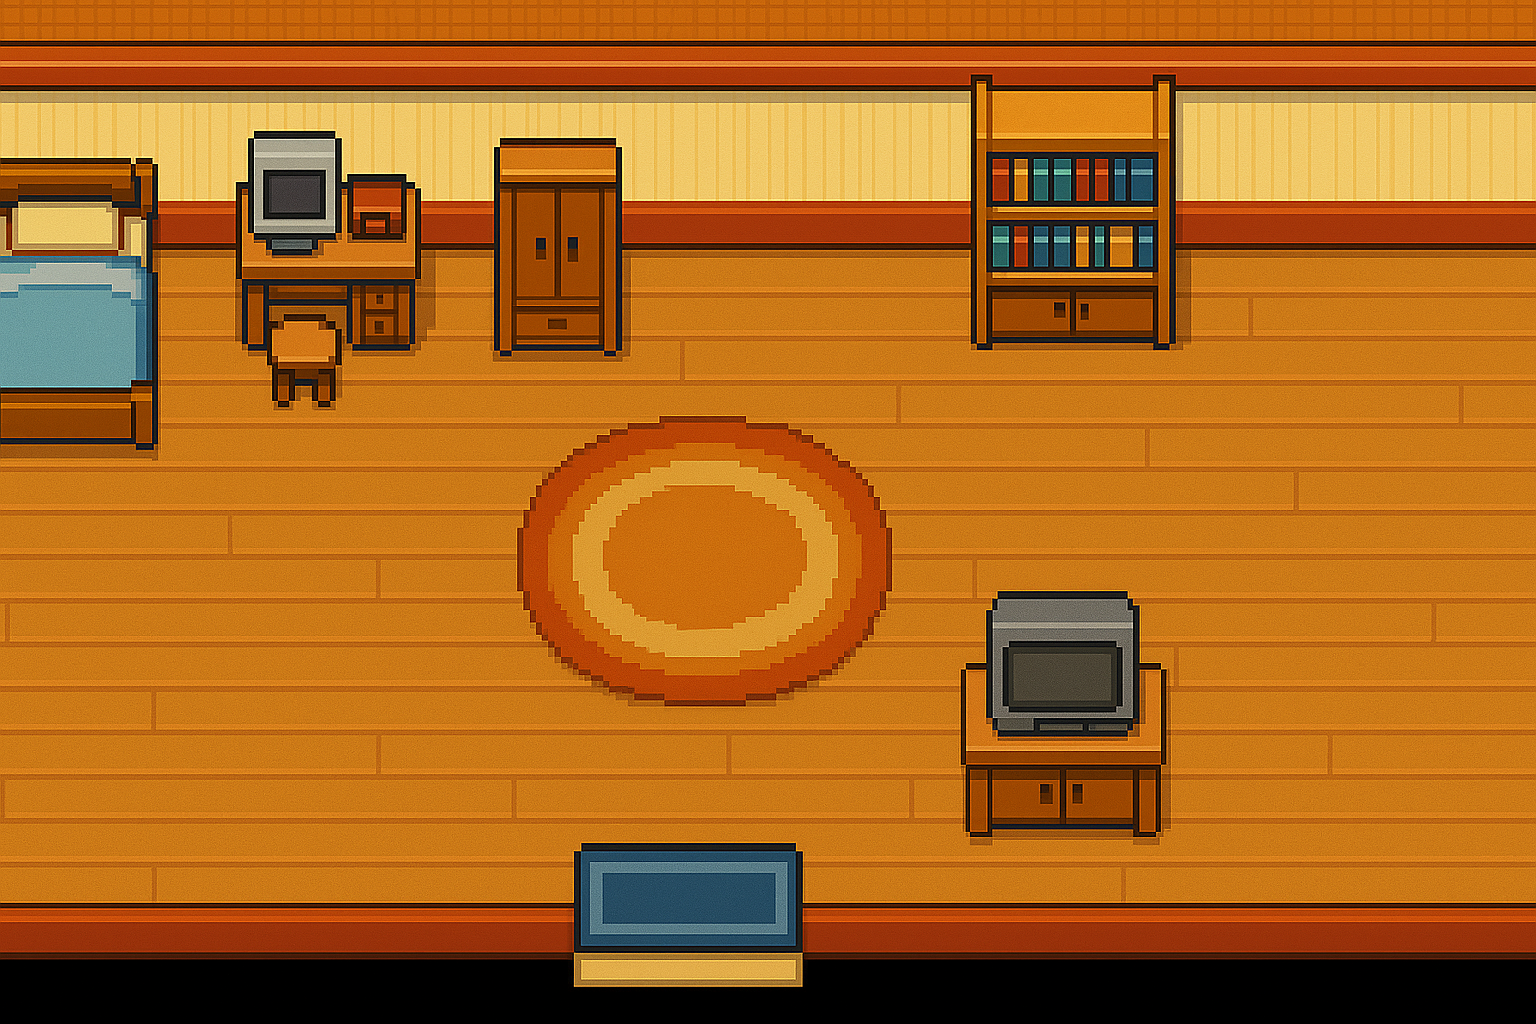
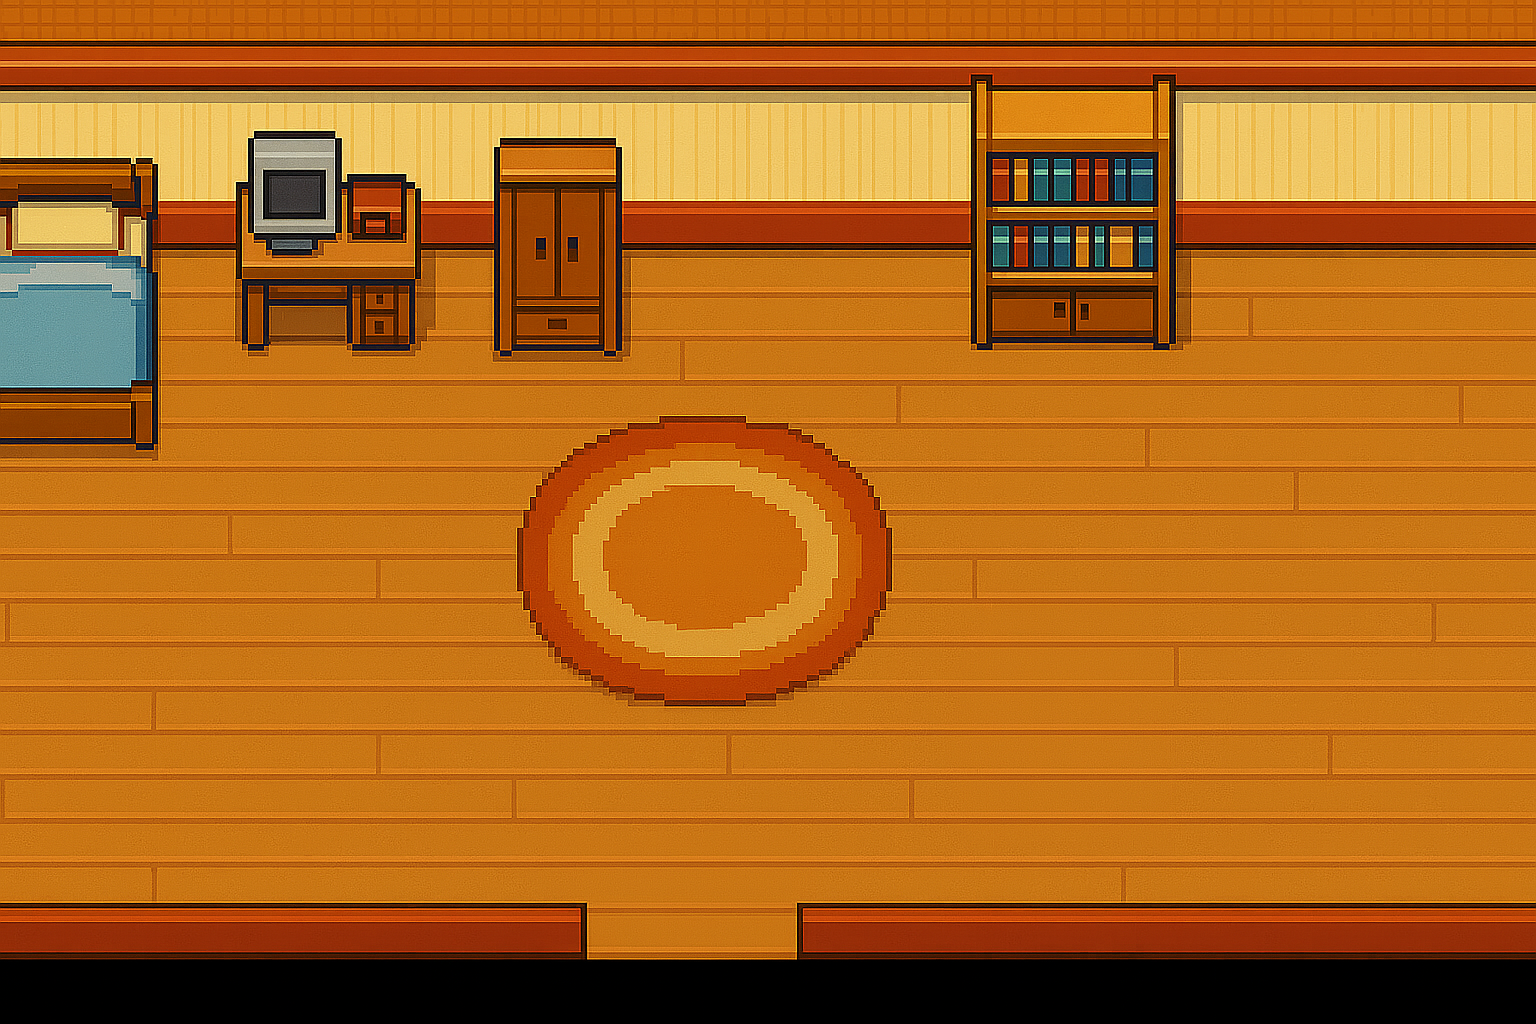
Added in starting room logic and lead up to home_city function

diff --git a/main.py b/main.py
@@ -60,10 +60,30 @@ save_files = ["saveSlot1.json", "saveSlot2.json", "saveSlot3.json"]
 player = None
 
 #Player Sprites
-userNorthIMG=[pygame.image.load("userNorth1.png"), pygame.image.load("userNorth2.png"), pygame.image.load("userNorth3.png"), pygame.image.load("userNorth4.png")]
-userEastIMG=[pygame.image.load("userEast1.png"), pygame.image.load("userEast2.png"), pygame.image.load("userEast3.png"), pygame.image.load("userEast4.png")]
-userSouthIMG=[pygame.image.load("userSouth1.png"), pygame.image.load("userSouth2.png"), pygame.image.load("userSouth3.png"), pygame.image.load("userSouth4.png")]
-userWestIMG=[pygame.image.load("userWest1.png"), pygame.image.load("userWest2.png"), pygame.image.load("userWest3.png"), pygame.image.load("userWest4.png")]
+userNorthIMG=[
+    pygame.image.load("userNorth1.png"),
+    pygame.image.load("userNorth2.png"),
+    pygame.image.load("userNorth3.png"),
+    pygame.image.load("userNorth4.png")
+    ]
+userEastIMG=[
+    pygame.image.load("userEast1.png"),
+    pygame.image.load("userEast2.png"),
+    pygame.image.load("userEast3.png"),
+    pygame.image.load("userEast4.png")
+    ]
+userSouthIMG=[
+    pygame.image.load("userSouth1.png"),
+    pygame.image.load("userSouth2.png"),
+    pygame.image.load("userSouth3.png"),
+    pygame.image.load("userSouth4.png")
+    ]
+userWestIMG=[
+    pygame.image.load("userWest1.png"),
+    pygame.image.load("userWest2.png"),
+    pygame.image.load("userWest3.png"),
+    pygame.image.load("userWest4.png")
+    ]
 
 
 # Loop for save slots
@@ -92,9 +112,9 @@ while running:
 
                 if data == {}:
                     newPlayer = True
-                    user = Player("Ryott", userSouthIMG[0], 250, 250, 4)
+                    user = Player("Ryott", userNorthIMG, userSouthIMG, userEastIMG, userWestIMG, 250, 250, 4)
                 else:
-                    user = Player.from_dict(data)
+                    user = Player.from_dict(data, userNorthIMG, userSouthIMG, userEastIMG, userWestIMG)
 
                 running = False
 
@@ -140,38 +160,39 @@ starter1 = Button("pyrazzle.png", (150, 200), scale=0.4)
 starter2 = Button("aquabble.png", (550, 200), scale=0.4)
 starter3 = Button("sproutuft.png", (950, 200), scale=0.4)
 
-pymon=[]
+pymon=[] 
 starter=None
-running = True
-while running:
-    screen.fill((50, 50, 50))
+if newPlayer:
+    running = True
+    while running:
+        screen.fill((50, 50, 50))
 
-    # Update and draw each button
-    starter1.update()
-    starter1.draw(screen)
+        # Update and draw each button
+        starter1.update()
+        starter1.draw(screen)
 
-    starter2.update()
-    starter2.draw(screen)
+        starter2.update()
+        starter2.draw(screen)
 
-    starter3.update()
-    starter3.draw(screen)
+        starter3.update()
+        starter3.draw(screen)
 
-    for event in pygame.event.get():
-        if event.type == pygame.QUIT:
-            running = False
+        for event in pygame.event.get():
+            if event.type == pygame.QUIT:
+                running = False
 
-        if starter1.is_clicked(event):
-            starter="Pyrazzle"
-            running=False
-        if starter2.is_clicked(event):
-            starter="Aquabble"
-            running=False
-        if starter3.is_clicked(event):
-            starter="Sproutuft"
-            running=False
+            if starter1.is_clicked(event):
+                starter="Pyrazzle"
+                running=False
+            if starter2.is_clicked(event):
+                starter="Aquabble"
+                running=False
+            if starter3.is_clicked(event):
+                starter="Sproutuft"
+                running=False
 
-    pygame.display.update()
-    clock.tick(60)
+        pygame.display.update()
+        clock.tick(60)
 
 #Starter Pymon
 Tackle= move("Tackle", "Normal", 40, 100, 0)
@@ -212,7 +233,47 @@ def home():
         room.draw(screen)
         #Add player update/sprite here
         user.draw(screen)
-        #Also add logic to change screen based on player position
+        user.update()
+        #Player Boundaries
+        #Bed
+        bed_rect=pygame.Rect(0, 100, 150, 250)
+        if user.rect.colliderect(bed_rect):
+            if user.rect.left < bed_rect.right and user.rect.right > bed_rect.right:
+                user.rect.left = bed_rect.right
+            if user.rect.top < bed_rect.bottom and user.rect.bottom > bed_rect.bottom:
+                user.rect.top = bed_rect.bottom
+        #Desk
+        desk_rect=pygame.Rect(200, 150, 200, 100)
+        if user.rect.colliderect(desk_rect):
+            if user.rect.left < desk_rect.right and user.rect.right > desk_rect.right:
+                user.rect.left = desk_rect.right
+            if user.rect.top < desk_rect.bottom and user.rect.bottom > desk_rect.bottom:
+                user.rect.top = desk_rect.bottom
+        #Cabinet
+        cabinet_rect=pygame.Rect(500, 150, 100, 100)
+        if user.rect.colliderect(cabinet_rect):
+            if user.rect.left < cabinet_rect.right and user.rect.right > cabinet_rect.right:
+                user.rect.left = cabinet_rect.right
+            if user.rect.top < cabinet_rect.bottom and user.rect.bottom > cabinet_rect.bottom:
+                user.rect.top = cabinet_rect.bottom
+        #Bookshelf
+        bookshelf_rect=pygame.Rect(1000, 150, 150, 100)
+        if user.rect.colliderect(bookshelf_rect):
+            if user.rect.top < bookshelf_rect.bottom and user.rect.bottom > bookshelf_rect.bottom:
+                user.rect.top = bookshelf_rect.bottom
+            if user.rect.left < bookshelf_rect.right and user.rect.right > bookshelf_rect.right:
+                user.rect.left = bookshelf_rect.right
+            if user.rect.right > bookshelf_rect.left and user.rect.left < bookshelf_rect.left:
+                user.rect.right = bookshelf_rect.left
+        #Walls
+        if user.rect.top < 100:
+            user.rect.top = 100
+        if user.rect.bottom > 900 and user.rect.left>700 or user.rect.bottom >900 and user.rect.right < 700:
+            user.rect.bottom = 900
+        #Exit
+        exit_rect=pygame.Rect(580, 900, 150, 100)
+        if user.rect.colliderect(exit_rect):
+            home_city()
         pygame.display.update()
         clock.tick(60)
 def home_city():

diff --git a/classes.py b/classes.py
@@ -158,54 +158,113 @@ class Button:
         return event.type == pygame.MOUSEBUTTONDOWN and self.rect.collidepoint(event.pos)
 
 class Player(pygame.sprite.Sprite):
-    def __init__(self, name, image, x, y, scale):
+    def __init__(self, name, north_images, south_images, east_images, west_images, x, y, scale):
         super().__init__()
-        width, height = image.get_size()
-        self.image = pygame.transform.scale(image, (int(width * scale), int(height * scale)))
+        self.name = name
+        self.north_images = north_images
+        self.south_images = south_images
+        self.east_images = east_images
+        self.west_images = west_images
+
+        self.direction = "south"
+        self.current_frame = 0
+        self.frame_timer = 0
+        self.frame_delay = 5  # Frames before advancing animation
+
+        # Scale first frame image
+        self.image = self.south_images[0]
+        width, height = self.image.get_size()
+        self.scale = scale
+        self.image = pygame.transform.scale(self.image, (int(width * scale), int(height * scale)))
+
         self.rect = self.image.get_rect()
         self.rect.x = x
         self.rect.y = y
-        self.name = name
+
         self.pymon_list = []
 
-
     def draw(self, surface):
-        surface.blit(self.image, self.rect)  # Draw the sprite on the surface
+        surface.blit(self.image, self.rect)
+
     def catch_pymon(self, new_pymon):
         self.pymon_list.append(new_pymon)
-        print(f"{self.name} aquired a new Pymon: {new_pymon.name}!")
+        print(f"{self.name} acquired a new Pymon: {new_pymon.name}!")
+
     def update(self):
-        keystate=pygame.key.get_pressed()
+        keystate = pygame.key.get_pressed()
+        moved = False
+
         if keystate[pygame.K_UP]:
-            self.rect.y -=5
-        if keystate[pygame.K_DOWN]:
-            self.rect.y +=5
-        if keystate[pygame.K_LEFT]:
-            self.rect.x -=5
-        if keystate[pygame.K_RIGHT]:
-            self.rect.x +=5
-        #Staying in screen bounds
-        if self.rect.top<0:
-            self.rect.top=0
-        if self.rect.bottom>1000:
-            self.rect.bottom=1000
-        if self.rect.left<0:
-            self.rect.left=0
-        if self.rect.right>1500:
-            self.rect.right=1500
+            self.rect.y -= 5
+            self.direction = "north"
+            moved = True
+        elif keystate[pygame.K_DOWN]:
+            self.rect.y += 5
+            self.direction = "south"
+            moved = True
+        elif keystate[pygame.K_LEFT]:
+            self.rect.x -= 5
+            self.direction = "west"
+            moved = True
+        elif keystate[pygame.K_RIGHT]:
+            self.rect.x += 5
+            self.direction = "east"
+            moved = True
+
+        if moved:
+            self.frame_timer += 1
+            if self.frame_timer >= self.frame_delay:
+                self.current_frame = (self.current_frame + 1) % 4
+                self.update_image()
+                self.frame_timer = 0
+        else:
+            self.current_frame = 0
+            self.update_image()
+
+        # Stay in bounds
+        if self.rect.top < 0:
+            self.rect.top = 0
+        if self.rect.bottom > 1000:
+            self.rect.bottom = 1000
+        if self.rect.left < 0:
+            self.rect.left = 0
+        if self.rect.right > 1500:
+            self.rect.right = 1500
+
+    def update_image(self):
+        if self.direction == "north":
+            img = self.north_images[self.current_frame]
+        elif self.direction == "south":
+            img = self.south_images[self.current_frame]
+        elif self.direction == "east":
+            img = self.east_images[self.current_frame]
+        elif self.direction == "west":
+            img = self.west_images[self.current_frame]
+        else:
+            img = self.south_images[0]
+
+        original_width, original_height = img.get_size()
+        scaled_width = int(original_width * self.scale)
+        scaled_height = int(original_height * self.scale)
+
+        self.image = pygame.transform.scale(img, (scaled_width, scaled_height))
+
     def to_dict(self):
         return {
-            "name":self.name,
-            "pymon_list":[p.to_dict() for p in self.pymon_list]
+            "name": self.name,
+            "x": self.rect.x,
+            "y": self.rect.y,
+            "scale": self.scale,
+            "pymon_list": [p.to_dict() for p in self.pymon_list]
         }
+
     @classmethod
-    def from_dict(cls, data):
+    def from_dict(cls, data, north_images, south_images, east_images, west_images):
         name = data.get("name", "DefaultName")
         x = data.get("x", 750)
         y = data.get("y", 700)
-        scale = data.get("scale", 0.15)
+        scale = data.get("scale", 0.4)
 
-        image = pygame.image.load("userSouth1.png")
-
-        player = cls(name, image, x, y, scale)
+        player = cls(name, north_images, south_images, east_images, west_images, x, y, scale)
+        player.pymon_list = [Pymon.from_dict(p) for p in data.get("pymon_list", [])]
         return player
